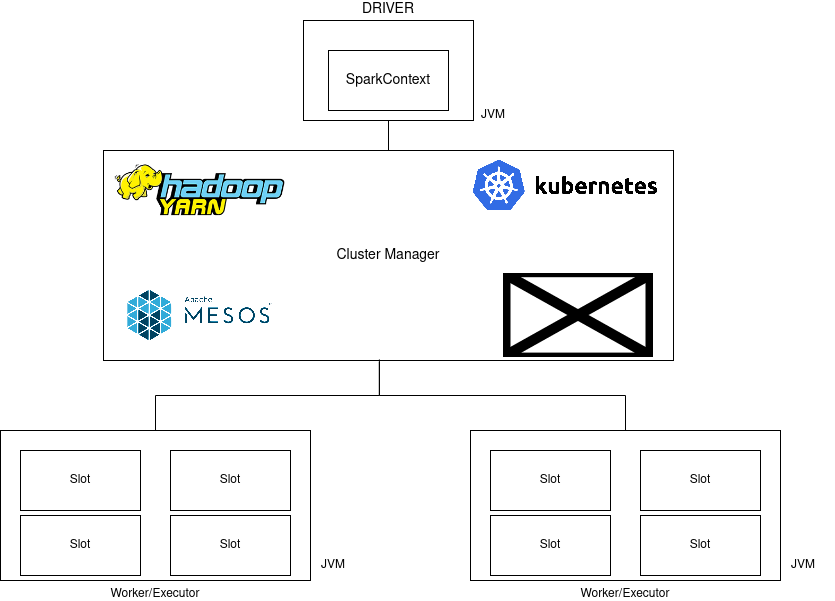
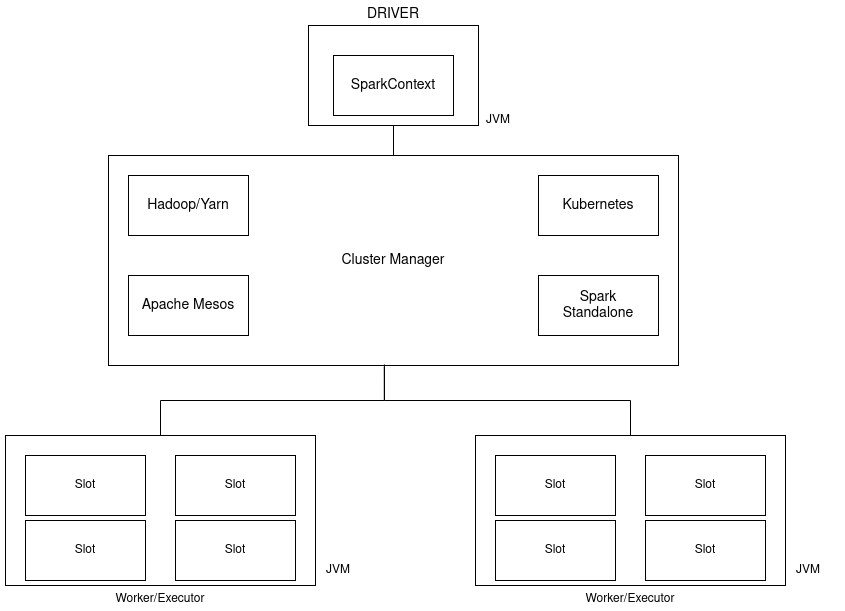
Update Spark Core Concepts

diff --git a/_posts/2021-12-09-spark-core-concepts.md b/_posts/2021-12-09-spark-core-concepts.md
@@ -22,6 +22,4 @@ Spark can run on **Local** mode,  **Standalone** mode**Cluster** mode or on .
 Local mode means that Spark launches all the tasks on a single JVM and the parallelism will be done according 
 to the number of threads. There's no task distribution on Local mode.
 
-This article will focus more on the Standalone and Cluster mode execution.
-
-![Spark Architecture](../assets/images/posts/spark-core-concepts/spark-architecture.png)
+![Spark Architecture](../assets/images/posts/spark-core-concepts/spark-architecture.png "zz")
